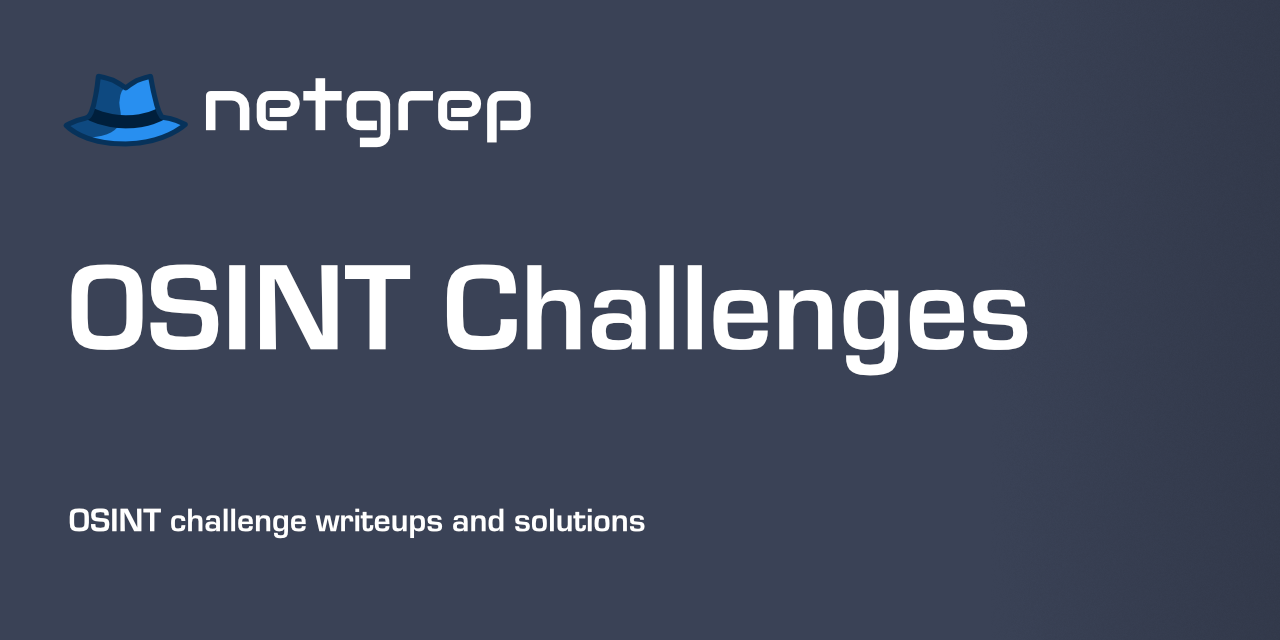
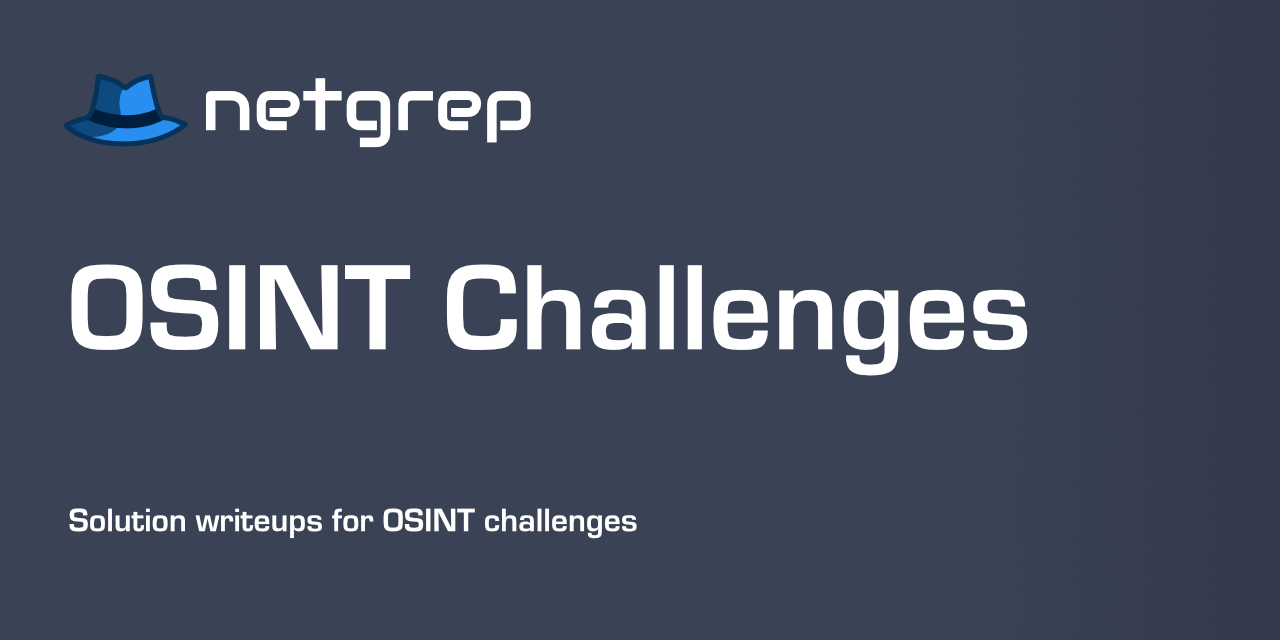
Refine images

Changed region(s): [[0.0625, 0.7812, 0.5, 0.8438]]

diff --git a/pages/overrides/main.html b/pages/overrides/main.html
@@ -4,7 +4,7 @@
   {{ super() }}
   <meta property="og:type" content="website">
   <meta property="og:title" content="netgrep: OSINT Challenges">
-  <meta property="og:description" content="OSINT challenge writeups and solutions.">
+  <meta property="og:description" content="Solution writeups for OSINT challenges.">
   <meta property="og:image" content="https://netgrep.jfox.io/img/social_card.png">
   <meta property="og:image:type" content="image/png">
   <meta property="og:image:width" content="1280">
@@ -12,7 +12,7 @@
   <meta property="og:url" content="https://netgrep.jfox.io/">
   <meta name="twitter:card" content="summary_large_image">
   <meta name="twitter:title" content="netgrep: OSINT Challenges">
-  <meta name="twitter:description" content="OSINT challenge writeups and solutions.">
+  <meta name="twitter:description" content="Solution writeups for OSINT challenges.">
   <meta name="twitter:image" content="https://netgrep.jfox.io/img/social_card.png">
   <meta property="twitter:domain" content="netgrep.jfox.io">
   <meta property="twitter:url" content="https://netgrep.jfox.io">
